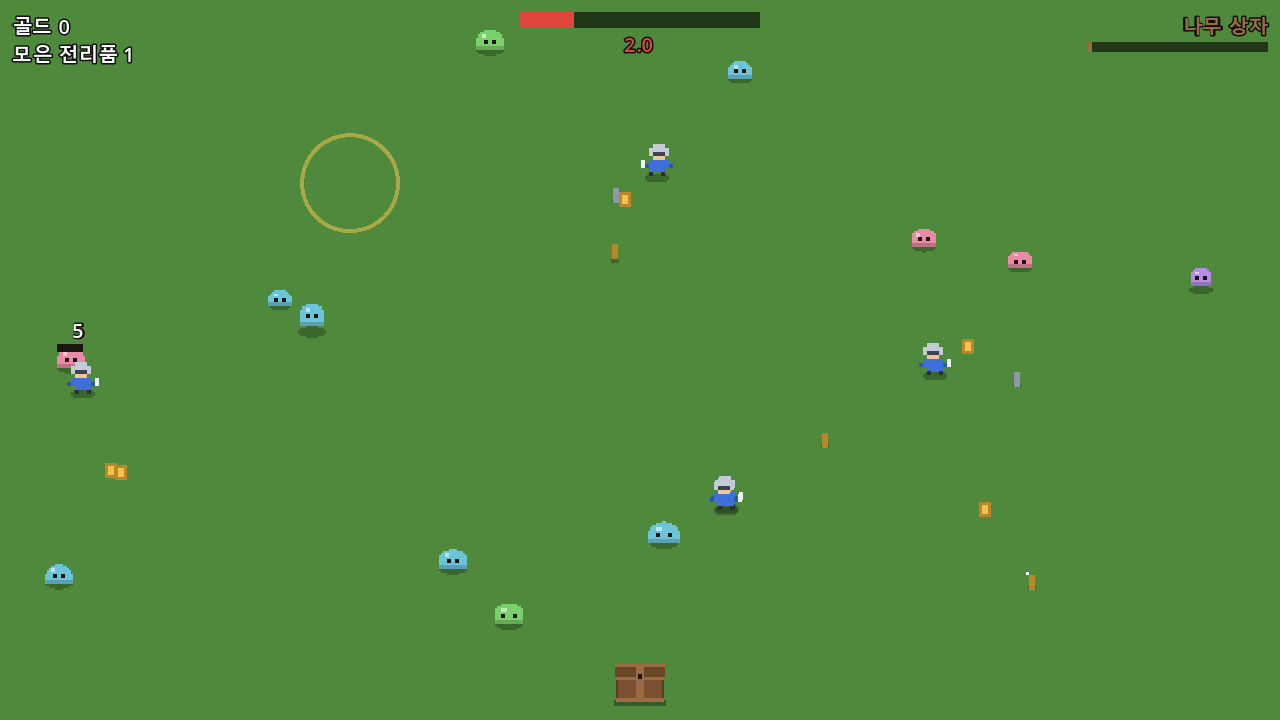
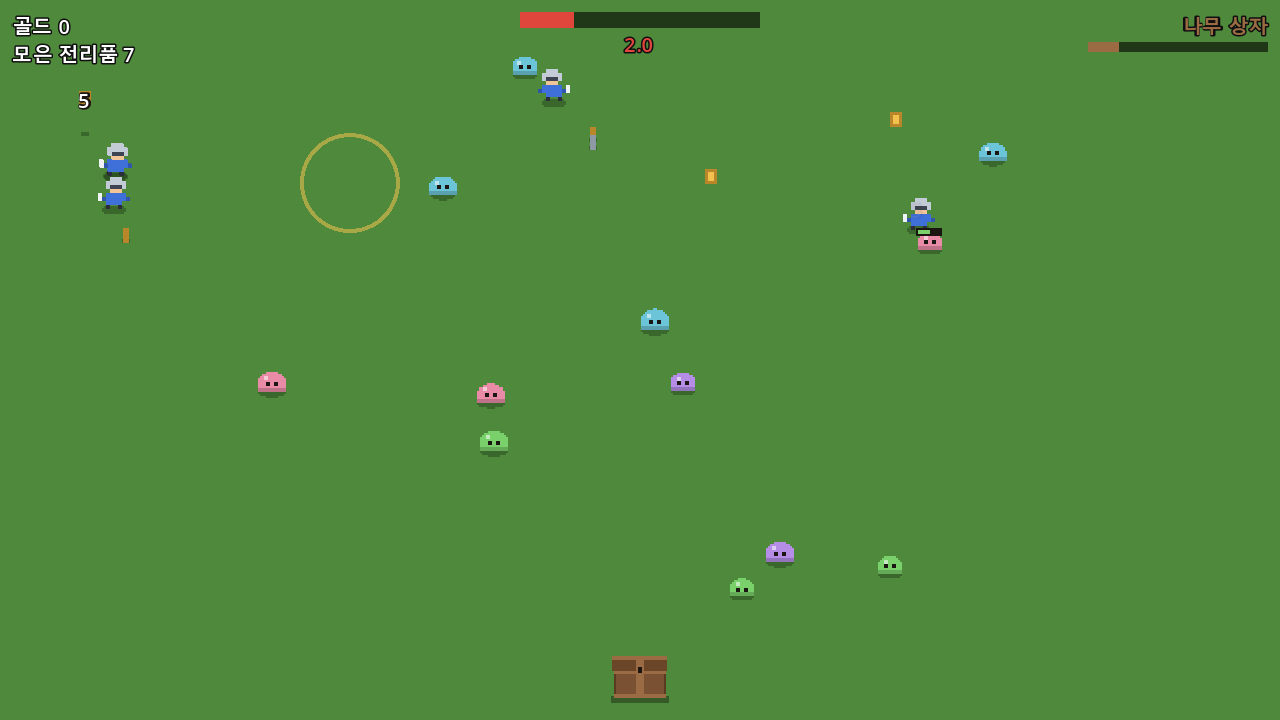
feat: widen the loot ring, place labels around it and close story-004
Widens the final-harvest ring (inner radius 40, width 60) after playtest and
places the tier/gold labels just above it and the harvest timer/bonus just
below it, computed from the ring size (ui.ring_label_margin). Recaptures the
evidence screenshots at the new layout, fixes stale wording in the story doc
and marks story-004 Complete in the story file and EPIC.md.

Story: production/epics/slime-nodaji/story-004-run-timer-burst.md

diff --git a/production/epics/slime-nodaji/story-004-run-timer-burst.md b/production/epics/slime-nodaji/story-004-run-timer-burst.md
@@ -1,7 +1,7 @@
 # Story 004: 시간제 한 판 + 상자 개봉·마지막 수확·정산 화면
 
 > **Epic**: slime-nodaji
-> **Status**: In Progress
+> **Status**: Complete
 > **Layer**: N/A (minimal — no layers)
 > **Type**: UI
 > **Estimate**: L
@@ -31,9 +31,9 @@
 - [ ] 한 판의 길이는 `assets/data/run.json`의 `run.base_time + run.time_per_level × time 레벨`초이고, HUD에 남은 시간 바와 숫자가 표시된다. `run.low_time_threshold` 미만이면 빨갛게 바뀐다.
 - [ ] HUD에 골드, 상자 등급 이름·진행 바, 모은 전리품 양이 표시된다.
 - [ ] 시간이 끝나면 영웅 투입이 멈추고, 상자가 필드 중앙으로 이동하며 커진다 (`burst.move_time`).
-- [ ] `burst.open_time`에 상자가 열리며 화면이 크게 흔들리고(`burst.open_shake`), 전리품이 `rain.count_base`·`rain.count_per_sqrt_total`·`rain.count_max`로 정해진 개수만큼 쏟아져 필드 바닥에 떨어진다 (종류 비율은 `rain.kind_chance`).
+- [ ] `burst.open_time`에 상자가 열리며 화면이 크게 흔들리고(`burst.open_shake`), 전리품이 `rain.count_base`·`rain.count_per_sqrt_total`·`rain.count_max`로 정해진 개수만큼 쏟아져 상자 둘레의 도넛형 링(`ring.*`)에 떨어진다 (종류 비율은 `rain.kind_chance`, 보석은 링 바깥쪽).
 - [ ] 기본 골드 = `round(모은 양 × 등급 배율)`이고, 상자 위에서 `burst.count_up_time` 동안 카운트업된다.
-- [ ] **마지막 수확:** 쏟아진 전리품이 바닥에 떨어지면 `harvest.duration`의 수확 시간이 시작되고 남은 시간이 표시된다. 이 동안 커서 자석(반경은 `assets/data/chest_tiers.json`의 magnet 값)으로 전리품을 다시 주울 수 있다.
+- [ ] **마지막 수확:** 쏟아진 전리품이 링에 모두 떨어지면 `harvest.duration`의 수확 시간이 시작되고 남은 시간이 링 아래에 표시된다. 이 동안 커서 자석(반경은 `assets/data/chest_tiers.json`의 magnet 값)으로 상자 주위를 돌며 전리품을 다시 주울 수 있다.
 - [ ] **수확 보너스:** 주운 전리품 하나마다 `기본 가치 × 판 스케일 × 코인 레벨 보정`(코인 값과 보정은 `assets/data/slime_field.json`의 coin 값, 판 스케일은 `SlimeField.coin_value`와 같은 식)이 보너스로 더해지고(등급 배율 없음), 누적 보너스가 화면에 표시된다. 수확 시간이 끝나면 못 주운 전리품은 사라진다.
 - [ ] 수확이 끝나면 결과 화면이 열리며 모은 전리품, 상자 등급, 배율, 처치한 슬라임, 기본 골드, 수확 보너스, 획득 골드(= 기본 + 보너스)를 보여준다. '스킬 트리로'와 '바로 재출격'을 고를 수 있고, 키보드 포커스로도 선택된다.
 - [ ] 하드 실패는 없다: 항상 개봉하고 낮은 등급·배율을 받는다. 획득 골드(기본 + 보너스)가 보유 골드에 더해지고(저장은 story 005), 판 결과는 `RunResult` 데이터 객체 하나로 만들어 시그널로 내보낸다.
@@ -45,7 +45,7 @@
 
 - 값의 출처는 프로토타입의 `beginBurst`, `updateBurst`, `finishRun`, `hud`다. 마지막 수확은 프로토타입에 없는 기능이다 (브리프 1단계 MVP에 추가, 2026-10-27).
 - 수확 시간(`harvest.duration`), 분출 비율(`rain.kind_chance`)과 개봉 연출 값은 `assets/data/run.json`에 두고, 수확 보너스는 코인 가치 공식(`SlimeField.coin_value`)을 재사용한다 (등급 배율 없음).
-- **프로토타입과 다른 점 (의도적):** 상자 총합은 시간이 끝나는 순간이 아니라 개봉 순간(`burst.open_time`)에 확정한다 (날아가던 코인이 버려지지 않게). 카운트업은 프레임당이 아니라 초당 증가량(`burst.count_up_min_rate`)을 쓴다. **쏟아진 전리품은 필드 바닥이 아니라 상자 중심의 도넛형 링에 깔린다** (플레이 후 변경, `assets/data/run.json`의 `ring` 값; 보석은 바깥쪽 `ring.gem_band` 구간, 퍼지는 속도는 `ring.spread_speed`) — 커서를 상자 주위로 돌려 쓸어 담는다. 목록은 `design/game-brief.md`의 "손맛 조정으로 프로토타입과 달라진 값". 바닥 기준 분출 함수(`ChestBurst.step_loot`, `settle_loot`)와 `rain`의 해당 키는 더 이상 게임에서 쓰지 않지만 테스트와 함께 남겨 뒀다. 수확은 모든 코인이 바닥에 닿거나 `harvest.start_max_wait`가 지나면 시작한다. 보너스 공식은 사용자 결정("기본 골드 + 주운 만큼 보너스")을 따른 기본값이며 조정 가능하다.
+- **프로토타입과 다른 점 (의도적):** 상자 총합은 시간이 끝나는 순간이 아니라 개봉 순간(`burst.open_time`)에 확정한다 (날아가던 코인이 버려지지 않게). 카운트업은 프레임당이 아니라 초당 증가량(`burst.count_up_min_rate`)을 쓴다. **쏟아진 전리품은 필드 바닥이 아니라 상자 중심의 도넛형 링에 깔린다** (플레이 후 변경, `assets/data/run.json`의 `ring` 값; 보석은 바깥쪽 `ring.gem_band` 구간, 퍼지는 속도는 `ring.spread_speed`) — 커서를 상자 주위로 돌려 쓸어 담는다. 목록은 `design/game-brief.md`의 "손맛 조정으로 프로토타입과 달라진 값". 바닥 기준 분출 함수(`ChestBurst.step_loot`, `settle_loot` 등)와 `rain`의 바닥 관련 키는 지웠다. 상자 위 글자(등급·배율, 기본 골드)는 링 위쪽 끝 바로 위에, 수확 안내는 링 아래쪽 끝 바로 아래에 계산해서 놓는다 (`run.json`의 `ui.ring_label_margin`). 수확은 모든 코인이 링에 닿거나 `harvest.start_max_wait`가 지나면 시작한다. 보너스 공식은 사용자 결정("기본 골드 + 주운 만큼 보너스")을 따른 기본값이며 조정 가능하다.
 - 자석과 코인 비행은 story 003의 것을 재사용한다. 바닥 전리품의 가시성(크기·반짝임)도 003의 처리를 따른다.
 - **확장 설계 원칙 (브리프):** 판 결과는 `RunResult`(맵 id, 기본 골드, 수확 보너스, 상자 등급, 처치 수, 보스 처치 여부, 드롭 목록)로 만들어 시그널로 내보내고, 골드 적용은 그 결과를 받는 처리기가 맡는다. 2단계의 상점·장비·카드·도감이 처리기를 추가해 붙을 수 있게 한다. 맵 id는 1단계에서 하나뿐이어도 필드로 둔다.
 - 화면은 640×360 기준이며, 글꼴은 도트 느낌의 폰트를 쓴다 (프로토타입은 Jua, Gowun Dodum, Silkscreen).
@@ -72,10 +72,12 @@
 - src/gameplay/run/run_scene.gd (+ .tscn) — entry scene wiring the run, dev options (`-- --autostart --run-seconds=N --auto-drop=N --runs=N`)
 - src/gameplay/run/run_view.gd — burst dim and raining loot
 - src/gameplay/chest/chest_burst.gd
-- src/gameplay/magnet/magnet.gd — `set_target(position, sink)` for the final harvest
-- assets/data/run.json (incl. `ui` section: layout, colors, texts)
-- tests/unit/run/run_result_test.gd — 44 tests (written although qa.level is minimal, at the user's request)
-- tests/integration/run/run_data_test.gd — 11 tests
+- src/gameplay/magnet/magnet.gd — `set_target(target_position, sink)` for the final harvest
+- assets/data/run.json (incl. `ring` and `ui` sections: ring size, layout, colors, texts)
+- project.godot — `run/main_scene` points at `run_scene.tscn`
+- design/game-brief.md — ring layout recorded in "손맛 조정으로 프로토타입과 달라진 값"
+- tests/unit/run/run_result_test.gd — run result, burst, ring and harvest tests (written although qa.level is minimal, at the user's request)
+- tests/integration/run/run_data_test.gd — run.json against the prototype and the playtest values
 
 ---
 
@@ -90,7 +92,7 @@
 **Story Type**: UI
 **Required evidence**: 터치한 화면(HUD, 개봉 장면, 마지막 수확 장면, 결과 화면) 각각의 유지되는 스크린샷 → `production/qa/evidence/`
 
-**Status**: [ ] Not yet created
+**Status**: [x] Created — `production/qa/evidence/story-004-run-timer-burst/` (HUD, burst, final harvest, result screen at 1280×720, with `stamp.txt`)
 
 ---
 
@@ -98,3 +100,12 @@
 
 - Depends on: `production/epics/slime-nodaji/story-003-magnet-chest-tiers.md`
 - Unlocks: `production/epics/slime-nodaji/story-005-skill-tree-save.md`
+
+---
+
+## Completion Notes
+**Completed**: 2026-10-28
+**Criteria**: 11/11 passing (개봉 연출·수확·결과 화면의 움직임과 키보드 선택은 사용자가 직접 플레이로 확인)
+**Deviations**: ADVISORY — `src/ui/hud/hud.gd`(줄 간격 등)와 `src/ui/result/result_screen.gd`(그리드 간격·패널 여백)의 UI 배치 숫자와 `run_scene.gd`의 개발용 상수는 코드에 하드코딩 (게임플레이 값 아님, 사용자 결정으로 `run.json`으로 옮기지 않음). 의도적 변경 — 전리품이 바닥 대신 상자 둘레의 도넛형 링(안쪽 40·폭 60)에 깔림, 상자 총합을 개봉 시점에 확정 (`design/game-brief.md`에 기록). 범위 밖 변경 — `project.godot`(메인 장면)과 `design/game-brief.md`는 사용자 요청.
+**Test Evidence**: `production/qa/evidence/story-004-run-timer-burst/` (스크린샷 7장, 링 40/60과 새 글자 배치로 재캡처, 스탬프 일치). 테스트는 면제이지만 `tests/unit/run/run_result_test.gd`와 `tests/integration/run/run_data_test.gd`를 작성함.
+**Reviewed by**: self, no independent review (엔진 API 점검은 별도로 실행, 문제 없음)

diff --git a/design/game-brief.md b/design/game-brief.md
@@ -53,7 +53,7 @@
 | 자석 기본 반경 (`34 + 10×레벨` → 환산 `17 + 5×레벨`) | 17 | **24** (`24 + 5×레벨`, 레벨당 증가는 그대로) | `assets/data/chest_tiers.json` `magnet.base_radius` | story-003 플레이: 범위가 좁아 커서를 코인에 거의 붙여야 끌려옴 (2026-10-28) |
 | 상자 튕김 크기 (코인 도착 시 확대) | 0.08 | **0.2** | `chest.bump_scale` | story-003 플레이: 코인이 상자에 들어갈 때 반응이 약함 (2026-10-28) |
 | 상자 튕김 들림 (도착 시 위로 뜨는 높이, px) | 2 | **5** | `chest.bump_lift` | 위와 같음 |
-| 개봉 전리품이 떨어지는 자리 (마지막 수확의 줍는 방식) | 필드 바닥에 흩어져 튕김 (`vx ±210`, `vy −450~−150`, 중력 550, 바닥 `H−7`) | **상자 중심의 도넛형 링**: 안쪽 반지름 48, 폭 24 (바깥 72 = 자석 기본 반경 24의 2~3배), 보석은 링 바깥쪽 40%에만 착지, 상자에서 초속 140으로 포물선을 그리며 퍼짐 | `assets/data/run.json` `ring.inner_radius`, `ring.width`, `ring.gem_band`, `ring.spread_speed` (포물선 높이는 `rain.gravity`) | story-004 플레이: 코인이 화면 아래에 깔려 줍기 별로임. 커서를 상자 주위로 빙글빙글 돌려 쓸어 담는 방식으로 변경 (2026-10-28) |
+| 개봉 전리품이 떨어지는 자리 (마지막 수확의 줍는 방식) | 필드 바닥에 흩어져 튕김 (`vx ±210`, `vy −450~−150`, 중력 550, 바닥 `H−7`) | **상자 중심의 도넛형 링**: 안쪽 반지름 40, 폭 60 (바깥 100), 보석은 링 바깥쪽 40%에만 착지, 상자에서 초속 140으로 포물선을 그리며 퍼짐 (처음 안쪽 48·폭 24였으나 한 바퀴에 다 쓸려서 넓힘, 2026-10-28) | `assets/data/run.json` `ring.inner_radius`, `ring.width`, `ring.gem_band`, `ring.spread_speed` (포물선 높이는 `rain.gravity`) | story-004 플레이: 코인이 화면 아래에 깔려 줍기 별로임. 커서를 상자 주위로 빙글빙글 돌려 쓸어 담는 방식으로 변경 (2026-10-28) |
 
 ---
 **Who it's for / what they feel:** 짧은 판을 반복하며 영웅단을 키우는 증분·방치형 팬. 떨어뜨리고 쓸어 담을 때의 묵직하고 쫀득한 타격감이 최우선 품질 목표.

diff --git a/production/epics/slime-nodaji/EPIC.md b/production/epics/slime-nodaji/EPIC.md
@@ -34,7 +34,7 @@
 | 001 | 슬라임 필드와 코인 드롭 | Logic | Complete | N/A |
 | 002 | 영웅 강하·착지 충격·기사 자동전투 | Visual/Feel | Complete | N/A |
 | 003 | 커서 자석 수집 + 상자 5등급·배율 | Logic | Complete | N/A |
-| 004 | 시간제 한 판 + 상자 개봉·마지막 수확·정산 화면 | UI | Ready | N/A |
+| 004 | 시간제 한 판 + 상자 개봉·마지막 수확·정산 화면 | UI | Complete | N/A |
 | 005 | 스킬 트리 16노드 + 골드 소비 + 저장 | Integration | Ready | N/A |
 | 006 | 궁수·광전사 + 핫바 | Logic | Ready | N/A |
 | 007 | 이벤트 4종 | Logic | Ready | N/A |
